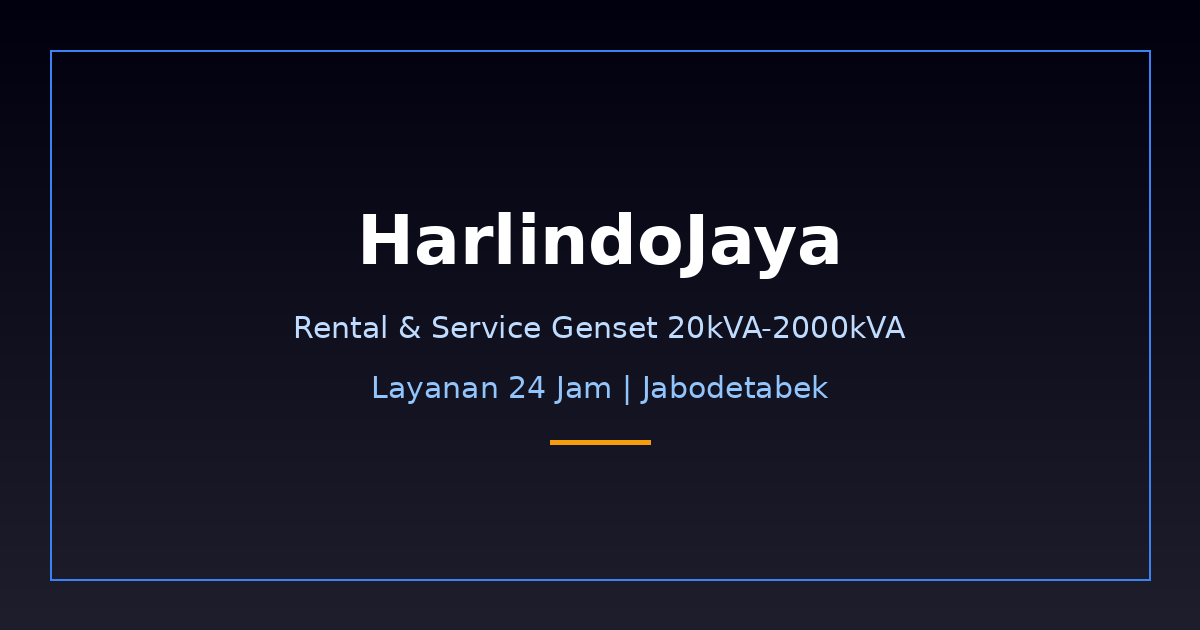
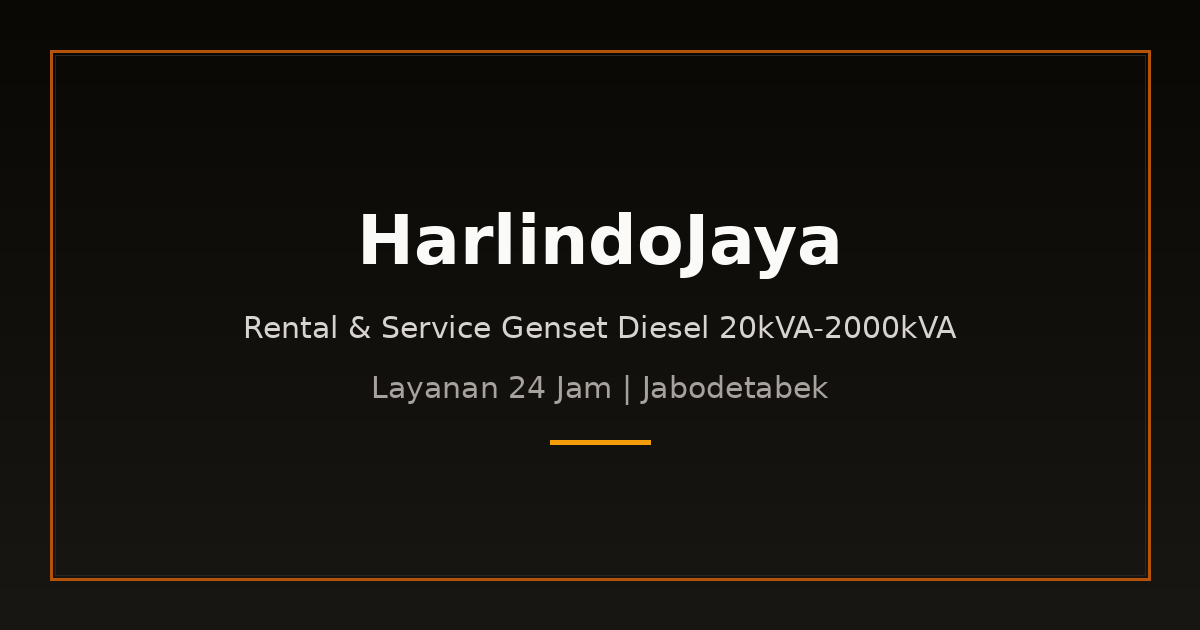
Theme redesign: heavy-duty diesel industrial (warm steel-gray + diesel amber)

diff --git a/src/app/globals.css b/src/app/globals.css
@@ -6,34 +6,34 @@
   /* CSS Variables for design tokens */
   :root {
     color-scheme: light;
-    --bg-primary: #f7faff;
+    --bg-primary: #f5f3ef;
     --bg-surface: #ffffff;
-    --bg-elevated: #eef6ff;
+    --bg-elevated: #eae7e0;
     --bg-card: #ffffff;
-    --fg-primary: #0f172a;
-    --fg-secondary: #475569;
-    --fg-muted: #64748b;
-    --accent-amber: #1d4ed8;
-    --accent-amber-hover: #1e40af;
+    --fg-primary: #1a1814;
+    --fg-secondary: #57534e;
+    --fg-muted: #78716c;
+    --accent-amber: #b45309;
+    --accent-amber-hover: #92400e;
     --accent-hazard: #dc2626;
-    --hairline: rgba(37, 99, 235, 0.12);
-    --hairline-strong: rgba(15, 23, 42, 0.16);
-    --color-bg-primary: 247 250 255;
+    --hairline: rgba(180, 83, 9, 0.10);
+    --hairline-strong: rgba(26, 24, 20, 0.14);
+    --color-bg-primary: 245 243 239;
     --color-bg-surface: 255 255 255;
-    --color-bg-elevated: 238 246 255;
+    --color-bg-elevated: 234 231 224;
     --color-bg-card: 255 255 255;
-    --color-fg-primary: 15 23 42;
-    --color-fg-secondary: 71 85 105;
-    --color-fg-muted: 100 116 139;
-    --color-fg-dim: 148 163 184;
-    --color-accent: 29 78 216;
-    --color-accent-hover: 30 64 175;
+    --color-fg-primary: 26 24 20;
+    --color-fg-secondary: 87 83 78;
+    --color-fg-muted: 120 113 108;
+    --color-fg-dim: 168 162 158;
+    --color-accent: 180 83 9;
+    --color-accent-hover: 146 64 14;
     --color-hazard: 220 38 38;
     --color-hazard-hover: 185 28 28;
-    --color-line: 37 99 235;
-    --color-line-strong: 15 23 42;
-    --color-line-accent: 29 78 216;
-    --color-shadow: 15 23 42;
+    --color-line: 214 211 209;
+    --color-line-strong: 168 162 158;
+    --color-line-accent: 180 83 9;
+    --color-shadow: 26 24 20;
     --color-inset: 255 255 255;
     --ease-haptic: cubic-bezier(0.32, 0.72, 0, 1);
     --ease-spring: cubic-bezier(0.16, 1, 0.3, 1);
@@ -42,33 +42,33 @@
 
   :root[data-theme="dark"] {
     color-scheme: dark;
-    --bg-primary: #07111f;
-    --bg-surface: #0b1727;
-    --bg-elevated: #10243a;
-    --bg-card: #0f1d2f;
-    --fg-primary: #eaf2ff;
-    --fg-secondary: #cbd8ea;
-    --fg-muted: #a9bdd5;
-    --accent-amber: #60a5fa;
-    --accent-amber-hover: #93c5fd;
+    --bg-primary: #0f0d0a;
+    --bg-surface: #1a1814;
+    --bg-elevated: #292524;
+    --bg-card: #1c1917;
+    --fg-primary: #fafaf9;
+    --fg-secondary: #d6d3d1;
+    --fg-muted: #a8a29e;
+    --accent-amber: #f59e0b;
+    --accent-amber-hover: #fbbf24;
     --accent-hazard: #f87171;
-    --hairline: rgba(147, 197, 253, 0.18);
-    --hairline-strong: rgba(226, 232, 240, 0.22);
-    --color-bg-primary: 7 17 31;
-    --color-bg-surface: 11 23 39;
-    --color-bg-elevated: 16 36 58;
-    --color-bg-card: 15 29 47;
-    --color-fg-primary: 234 242 255;
-    --color-fg-secondary: 203 216 234;
-    --color-fg-muted: 169 189 213;
-    --color-fg-dim: 100 116 139;
-    --color-accent: 96 165 250;
-    --color-accent-hover: 147 197 253;
+    --hairline: rgba(245, 158, 11, 0.14);
+    --hairline-strong: rgba(250, 250, 249, 0.18);
+    --color-bg-primary: 15 13 10;
+    --color-bg-surface: 26 24 20;
+    --color-bg-elevated: 41 37 36;
+    --color-bg-card: 28 25 23;
+    --color-fg-primary: 250 250 249;
+    --color-fg-secondary: 214 211 209;
+    --color-fg-muted: 168 162 158;
+    --color-fg-dim: 120 113 108;
+    --color-accent: 245 158 11;
+    --color-accent-hover: 251 191 36;
     --color-hazard: 248 113 113;
     --color-hazard-hover: 252 165 165;
-    --color-line: 147 197 253;
-    --color-line-strong: 226 232 240;
-    --color-line-accent: 96 165 250;
+    --color-line: 68 64 60;
+    --color-line-strong: 120 113 108;
+    --color-line-accent: 245 158 11;
     --color-shadow: 0 0 0;
     --color-inset: 255 255 255;
   }
@@ -98,7 +98,7 @@
   /* Selection */
   ::selection {
     background: var(--accent-amber);
-    color: white;
+    color: #fafaf9;
   }
 
   /* Scrollbar */

diff --git a/src/components/Hero.tsx b/src/components/Hero.tsx
@@ -12,18 +12,18 @@ export function Hero() {
     >
       {/* Ambient glow background */}
       <div className="pointer-events-none absolute inset-0">
-        <div className="absolute top-1/4 -left-1/4 h-[800px] w-[800px] rounded-full bg-amber/10 blur-[180px] animate-ambient-glow" />
-        <div className="absolute bottom-0 right-0 h-[600px] w-[600px] rounded-full bg-sky-200/30 blur-[140px]" />
+        <div className="absolute top-1/4 -left-1/4 h-[800px] w-[800px] rounded-full bg-amber/15 blur-[180px] animate-ambient-glow" />
+        <div className="absolute bottom-0 right-0 h-[600px] w-[600px] rounded-full bg-amber/20 blur-[140px]" />
       </div>
 
       {/* Grid lines */}
       <div
         aria-hidden="true"
-        className="pointer-events-none absolute inset-0 opacity-[0.03]"
+        className="pointer-events-none absolute inset-0 opacity-[0.04]"
         style={{
           backgroundImage:
             "linear-gradient(to right, white 1px, transparent 1px), linear-gradient(to bottom, white 1px, transparent 1px)",
-          backgroundSize: "80px 80px",
+          backgroundSize: "60px 60px",
         }}
       />
 
@@ -121,7 +121,7 @@ export function Hero() {
           <div className="absolute -bottom-6 -left-6 lg:-left-12 hidden md:block">
             <div className="rounded-2xl bg-bg-elevated/90 backdrop-blur-xl border border-line-strong p-5 shadow-card-deep w-64">
               <div className="flex items-center gap-3">
-                <div className="h-10 w-10 rounded-full bg-amber/10 flex items-center justify-center">
+                <div className="h-10 w-10 rounded-full bg-amber/15 flex items-center justify-center">
                   <Lightning weight="light" size={20} className="text-amber" />
                 </div>
                 <div>

diff --git a/src/components/PageHero.tsx b/src/components/PageHero.tsx
@@ -11,11 +11,11 @@ export function PageHero({ eyebrow, title, description }: PageHeroProps) {
     <section className="relative pt-20 pb-16 lg:pt-32 lg:pb-24 overflow-hidden">
       <div
         aria-hidden
-        className="pointer-events-none absolute inset-0 opacity-[0.03]"
+        className="pointer-events-none absolute inset-0 opacity-[0.04]"
         style={{
           backgroundImage:
             "linear-gradient(to right, white 1px, transparent 1px), linear-gradient(to bottom, white 1px, transparent 1px)",
-          backgroundSize: "80px 80px",
+          backgroundSize: "60px 60px",
         }}
       />
       <div className="pointer-events-none absolute top-0 right-0 h-[400px] w-[400px] rounded-full bg-amber/[0.04] blur-[120px]" />

diff --git a/tailwind.config.ts b/tailwind.config.ts
@@ -7,7 +7,7 @@ const config: Config = {
   theme: {
     extend: {
       colors: {
-        // Light industrial blue-white surfaces
+        // Heavy-duty diesel engine industrial surfaces
         bg: {
           primary: "rgb(var(--color-bg-primary) / <alpha-value>)",
           surface: "rgb(var(--color-bg-surface) / <alpha-value>)",
@@ -21,7 +21,7 @@ const config: Config = {
           muted: "rgb(var(--color-fg-muted) / <alpha-value>)",
           dim: "rgb(var(--color-fg-dim) / <alpha-value>)",
         },
-        // Primary brand accent: blue
+        // Primary brand accent: diesel amber
         amber: {
           DEFAULT: "rgb(var(--color-accent) / <alpha-value>)",
           hover: "rgb(var(--color-accent-hover) / <alpha-value>)",

diff --git a/src/app/layout.tsx b/src/app/layout.tsx
@@ -57,7 +57,7 @@ export const metadata: Metadata = {
 };
 
 export const viewport: Viewport = {
-  themeColor: "#F7FAFF",
+  themeColor: "#f5f3ef",
   width: "device-width",
   initialScale: 1,
 };